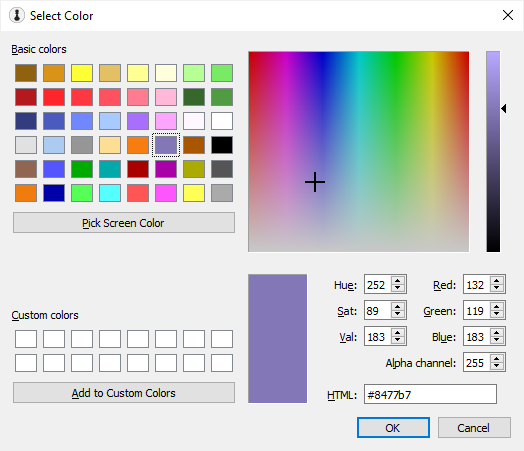
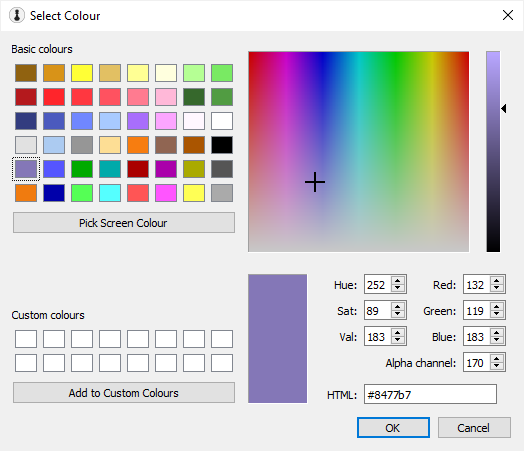
Spell `colour` correctly.

diff --git a/src/main.cpp b/src/main.cpp
@@ -15,9 +15,26 @@
 
 #include <QApplication>
 #include <QCoreApplication>
+#include <QTranslator>
 
 #include <qawno.h>
 #include "MainWindow.h"
+
+#include <string.h>
+
+class ColourTranslator : public QTranslator
+{
+public:
+  QString translate(const char* context, const char* sourceText, const char* disambiguation, int n) const override {
+    static QChar color[] = { 'c', 'o', 'l', 'o', 'r' };
+    static QChar Color[] = { 'C', 'o', 'l', 'o', 'r' };
+    static QChar COLOR[] = { 'C', 'O', 'L', 'O', 'R' };
+    static QChar colour[] = { 'c', 'o', 'l', 'o', 'u', 'r' };
+    static QChar Colour[] = { 'C', 'o', 'l', 'o', 'u', 'r' };
+    static QChar COLOUR[] = { 'C', 'O', 'L', 'O', 'U', 'R' };
+    return QString(sourceText).replace(color, 5, colour, 6).replace(Color, 5, Colour, 6).replace(COLOR, 5, COLOUR, 6);
+  }
+};
 
 int main(int argc, char **argv) {
   QApplication app(argc, argv);
@@ -26,6 +43,7 @@ int main(int argc, char **argv) {
   QCoreApplication::setApplicationVersion(QAWNO_VERSION_STRING);
   QCoreApplication::setOrganizationName("Zeex");
   QCoreApplication::setOrganizationDomain("zeex.github.io");
+  QCoreApplication::installTranslator(new ColourTranslator());
 
   MainWindow mainWindow;
   mainWindow.show();

diff --git a/README.md b/README.md
@@ -4,3 +4,36 @@ qawno
 Qawno is a simple cross-platform Pawn editor with syntax highlighting and script compilation support.
 
 ![Screenshot](screenshot.png)
+
+## Colour Picker
+
+Going to *Edit -> Colour Selection* or pressing *Ctrl+M* will bring up the colour selection dialog, shown below:
+
+![Colour Picker](documentation/colours-simple.png)
+
+The left half of the dialog is pre-defined colours.  `Pick Screen Colours` brings up a crosshair with which you can click anywhere on your screen to extract the colour at that point.  `Add to Custom Colours` saves the currently selected colour from the right half of the dialog to the currently selected `Custom colours` slot (make sure you select the slot first to avoid overwriting existing ones).  These saved custom colours will survive Qawno being restarted so you can use them throughout your project.  This half also includes the pre-defined `Basic colours`, detailed later.
+
+The right half of the screen is the main colour selection area.  The two top boxes can be clicked and dragged to to adjust the current colour.  The `Hue`, `Sat` (*saturation*), and *Val* (*value*) (collectively `HSV`); or `Red`, `Green`, and `Blue` (collectively `RGB`); boxes can be used to make fine adjustments to the individual colour componenets.  The `Alpha channel` input is used by both *HSV* and *RGB* and determines the transparency of the colour.  `0` is invisible (totally transparent), `255` is fully opaque, the default is `170` (`0xAA` in hex).  The `HTML` input can be used to preview an existing colour already in *RGB* hex format, and must include the `#`.  The final panel is a larger preview of the currently selected colour, ignoring transparency.
+
+Clicking on `OK` will insert your chosen colour in to your code at the current cursor position.  If the letter immediately before the cursor is an `x` the colour will be inserted as *RGBA*:
+
+```pawn
+#define MY_COLOUR 0x// Press Ctrl+M here.
+
+#define MY_COLOUR 0xFF0000AA // After selecting a colour.
+```
+
+Anywhere else will give the colour in *RGB* format:
+
+```pawn
+#define MY_COLOUR "{}" // Press Ctrl+M in the braces.
+
+#define MY_COLOUR "{FF0000}" // After selecting a colour.
+```
+
+Clicking `Cancel` will not insert anything.
+
+The pre-defined `Basic colours` are forty eight common colours from San Andreas, SA:MP, and open.mp, in three groups:
+
+![Colour Picker](documentation/colours-simple.png)
+